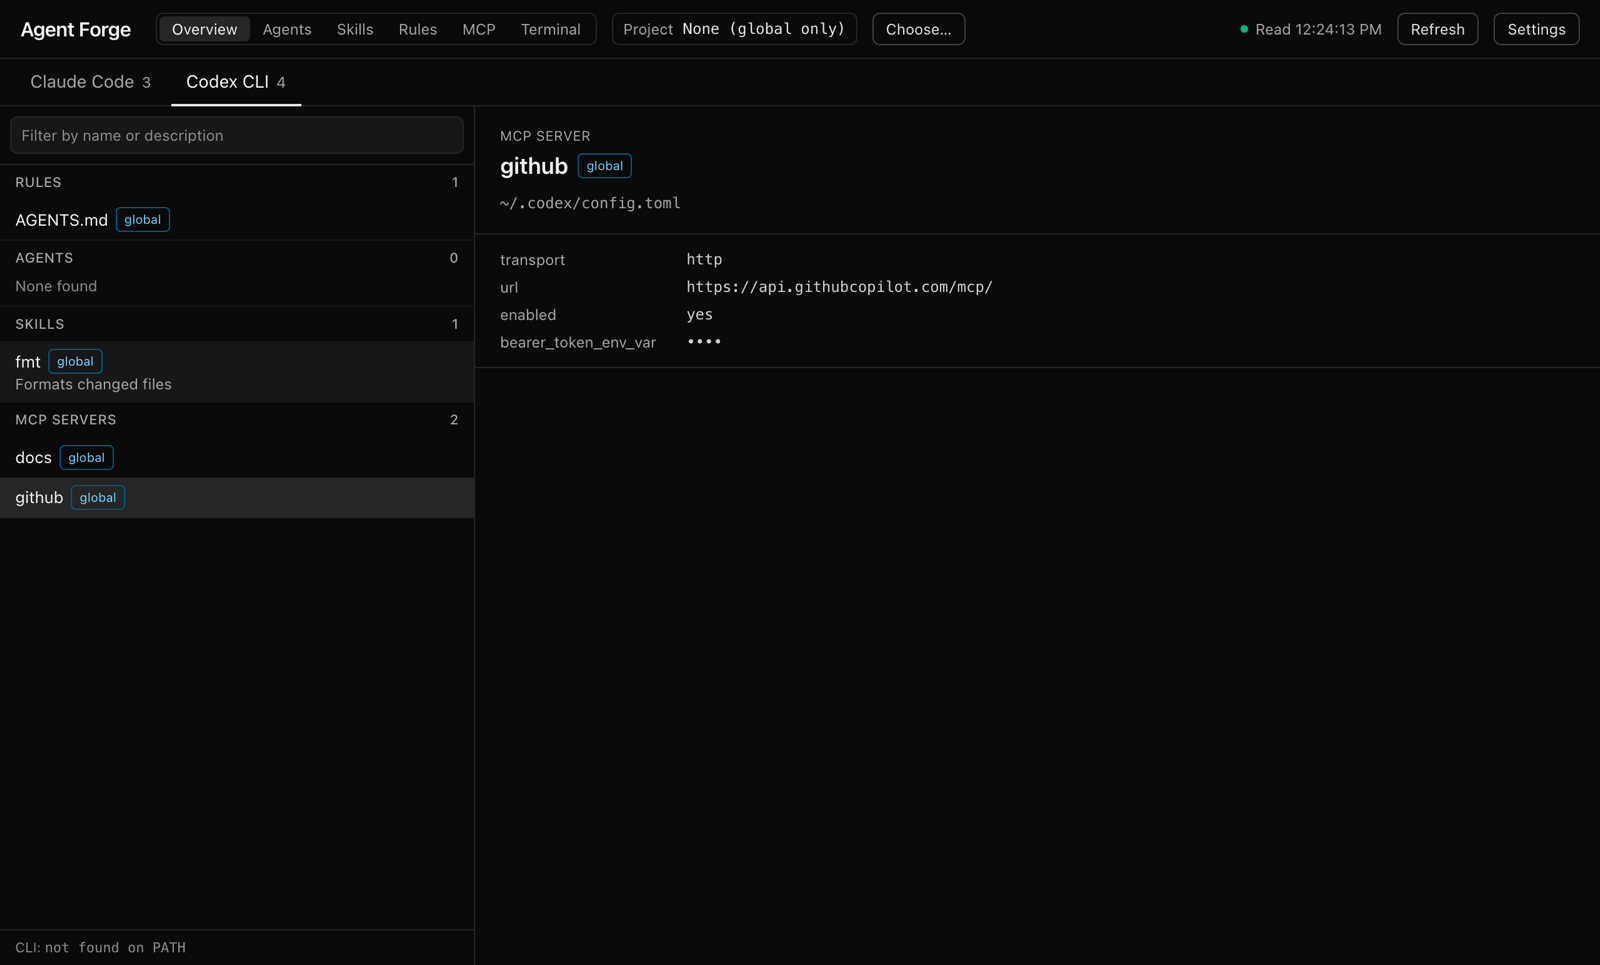
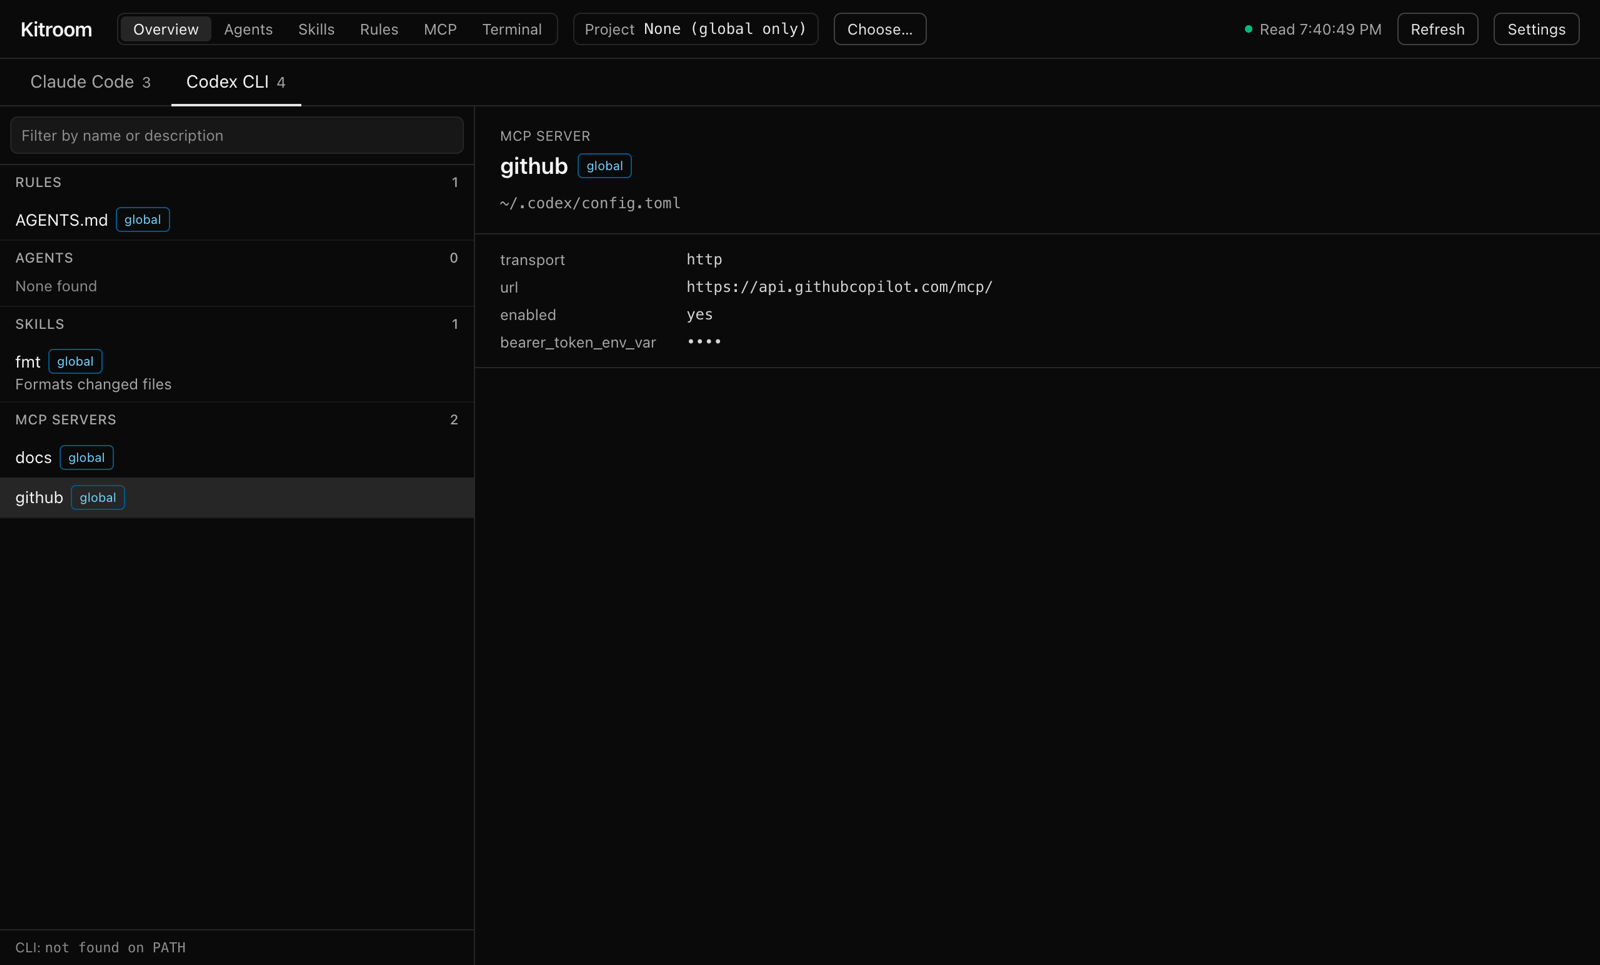
Kitroom 아이콘(장비 상자)으로 교체, 문서 스크린샷 다시 찍기
- 앱 아이콘: 에이전트·스킬·규칙·MCP를 뜻하는 네 칸이 든 장비 상자
- 개발 모드 Dock 아이콘을 못 읽어도 앱 시작을 막지 않도록 함
- CHANGELOG 0.1.1에 아이콘 변경 추가

diff --git a/apps/desktop/main/index.ts b/apps/desktop/main/index.ts
@@ -211,7 +211,13 @@ app.whenReady().then(async () => {
   applyTheme(await readSettings(settingsCtx()));
   setMenu();
   // Packaged apps get the icon from electron-builder; in dev, show it in the Dock too.
-  if (!app.isPackaged && process.platform === "darwin") app.dock?.setIcon(join(app.getAppPath(), "build", "icon.png"));
+  if (!app.isPackaged && process.platform === "darwin") {
+    try {
+      app.dock?.setIcon(join(app.getAppPath(), "build", "icon.png"));
+    } catch {
+      // Cosmetic only; never block startup.
+    }
+  }
   if (SMOKE) setTimeout(() => smokeFail(`timeout after ${SMOKE_TIMEOUT_MS}ms`), SMOKE_TIMEOUT_MS);
   mainWindow = createWindow();
   app.on("activate", () => {

diff --git a/CHANGELOG.md b/CHANGELOG.md
@@ -4,6 +4,7 @@
 
 ### Changed
 - Renamed from **Agent Forge** to **Kitroom**; the repository moved to `github.com/dev-aiden/kitroom`.
+- New app icon: a kit case holding agents, skills, rules and MCP servers.
 - On first launch, the app folder `~/.agent-forge` is moved to `~/.kitroom`, so agents, skills, settings and undo history carry over.
 
 If you installed Agent Forge 0.1.0, it will not tell you about this release: download Kitroom from the release page and delete the old "Agent Forge" app.
